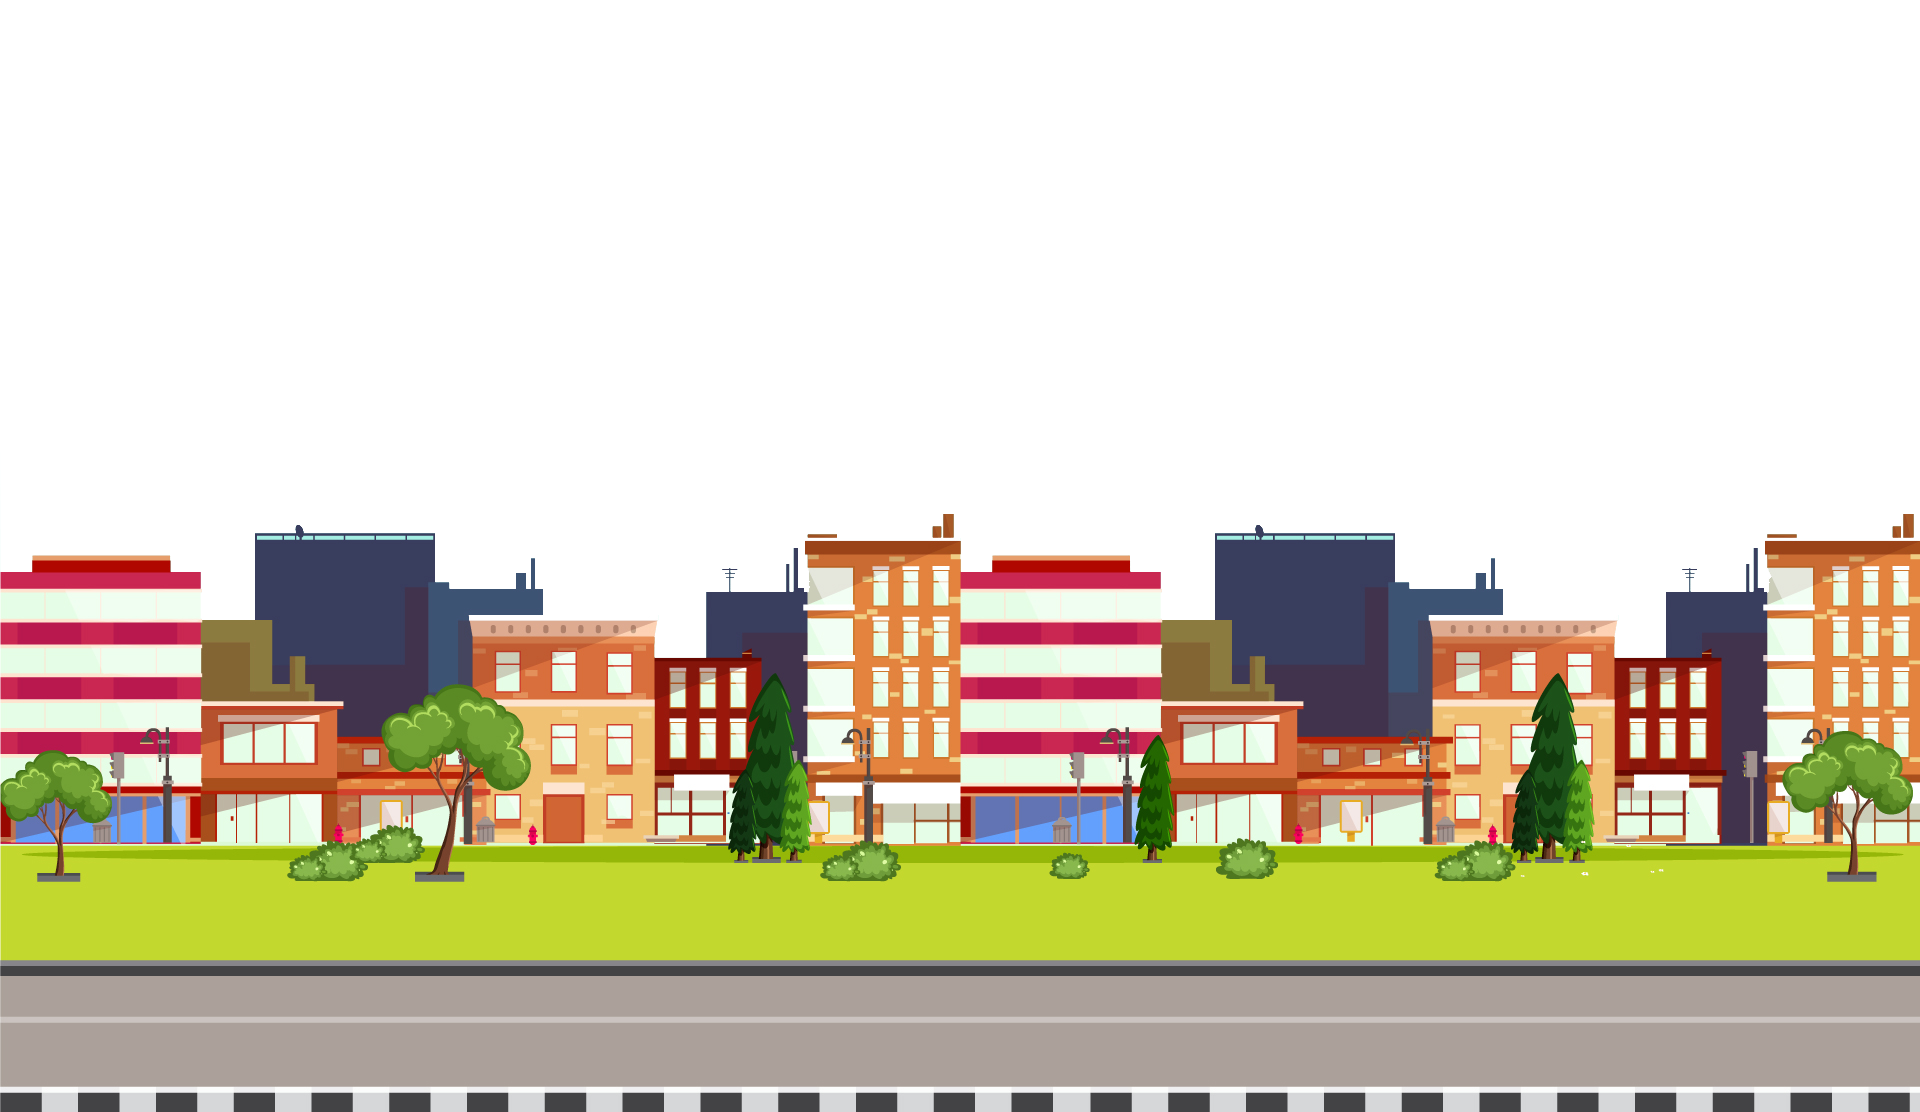
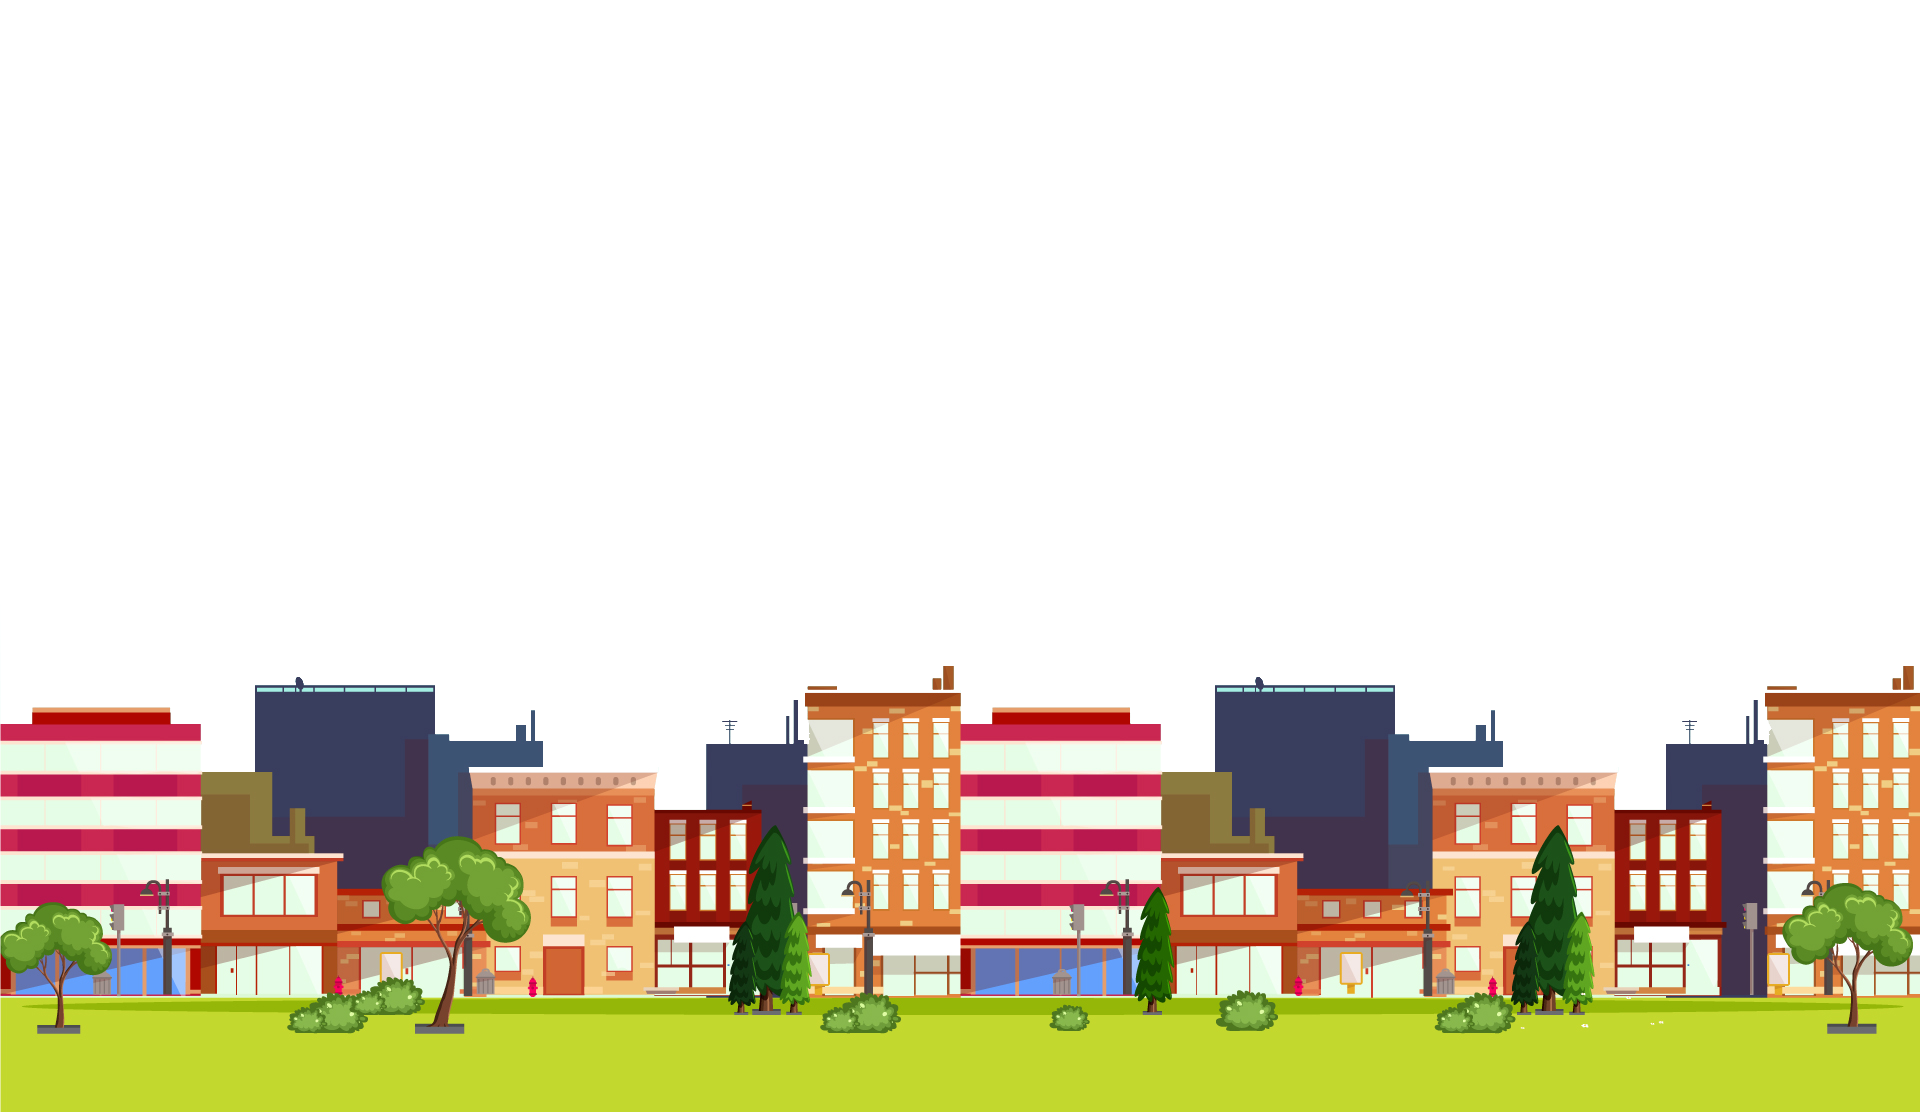
update green button

diff --git a/src/App.css b/src/App.css
@@ -67,29 +67,13 @@
 .floor-0-background {
   position: relative;
   width: 100%;
-  bottom: -161px;
-  background-size: auto 100%;
+  height: 100%;
+  background-size: cover;
   background-repeat: repeat-x;
-  background-position-x: bottom;
   background-position-y: bottom;
-  height: 160px;
-  background-image: url(./assets/img/city-front.png );
-  z-index: 10;
+  background-image: url(./assets/img/static/background-footer.png);
+  z-index: 0;
   overflow: hidden;
-}
-
-.bg-ground-my-bottom {
-  position: absolute;
-  width: 100%;
-  bottom: 0px;
-  left: 50%;
-  transform: translate(-50%);
-  background-size: auto 100%;
-  background-repeat: repeat-x;
-  background-position-x: bottom;
-  background-position-y: bottom;
-  height: 100px;
-  background-image: url(./assets/img/land.png );
 }
 
 .floor-kitchen {
@@ -103,7 +87,7 @@
 }
 
 body {
-  background: url(./assets/img/background.png) repeat-x;
+  background: url(./assets/img/static/background.png) repeat-x;
 }
 
 .section-bg {
@@ -113,13 +97,6 @@ body {
 .section-open {
   background-size: contain;
   background-position: bottom;
-}
-
-.section-open-logout {
-  background: url(./assets/img/background-logout.png) no-repeat;
-  width: 100%;
-  background-size: cover;
-  background-position: top;
 }
 
 #slider {
@@ -187,7 +164,7 @@ div.login-action {
 }
 
 .btn-green {
-  background: url(./assets/img/btn_green.png) no-repeat;
+  background: url(./assets/img/static/green-button.png) no-repeat;
   cursor: pointer;
   border: none;
   background-size: contain;
@@ -209,9 +186,17 @@ div.login-action {
 
 .get-money {
   position: relative;
+  width: 100%;
+  height: 152px;
+  background: url(./assets/img/static/road.png) no-repeat;
   justify-content: center;
   display: flex;
-  margin-top: 181px;
+}
+
+.footer-btn {
+  height: 50px;
+  font-weight: bold;
+  margin-top: 50px;
 }
 
 input.form-input {
@@ -856,7 +841,7 @@ button:hover,
   text-align: center;
   background-color: transparent;
   border: none;
-  background-image: url(./assets/img/btn_green.png);
+  background-image: url(./assets/img/static/green-button.png);
   background-size: contain;
   background-repeat: no-repeat;
   background-position: center;
@@ -1206,7 +1191,7 @@ div.barn-action {
   text-align: center;
   background-color: transparent;
   border: none;
-  background-image: url(./assets/img/btn_green.png);
+  background-image: url(./assets/img/static/green-button.png);
   background-size: contain;
   background-repeat: no-repeat;
   background-position: center;

diff --git a/src/components/footer.js b/src/components/footer.js
@@ -5,8 +5,8 @@ import DeliveryMan from "./animations/deliveryMan";
 
 const Footer = ({ isConnected, setShowGetMoney, loadWeb3Modal }) => {
     return (
-        <div className='footer'>
-            <div className="floor-0-background" style={{ overflow: "hidden" }} >
+        <>
+            <div className="footer floor-0-background">
                 <div className="floor-0-parking-pos">
                     <ParkingManager />
                     <div className="floor-0-brick-wall"></div>
@@ -14,21 +14,19 @@ const Footer = ({ isConnected, setShowGetMoney, loadWeb3Modal }) => {
                     <DeliveryMan nSpeed={5} />
                 </div>
             </div>
-            <div className="bg-ground-my-bottom"></div>
             <div className="get-money">
                 {isConnected ?
-                    <button type="button" className="btn-green"
-                        style={{ fontWeight: "bold" }}
+                    <button type="button" className="footer-btn btn-green"
                         onClick={() => setShowGetMoney(true)}>
                         Get Money
                     </button> :
-                    <button type="button" className="btn-green btn-login" style={{ fontWeight: "bold" }}
+                    <button type="button" className="footer-btn btn-green"
                         onClick={loadWeb3Modal}>
-                        Connect
+                        CONNECT
                     </button>
                 }
             </div>
-        </div>
+        </>
     )
 }
 export default Footer;

diff --git a/src/components/house.js b/src/components/house.js
@@ -38,10 +38,10 @@ const House = ({ id, houseInfo, isConnected, price, setUpgradeLevel, enableValue
                         {(id > 2) && <div className='table table3'></div>}
                         <div className='table table4'></div>
                     </div>
-                    {visible1 && (id > 6) && <Chef className="chef-1" chefId={1} cookingTime={1000} workTime={3000} backTime={3000} />}
+                    {/* {visible1 && (id > 6) && <Chef className="chef-1" chefId={1} cookingTime={1000} workTime={3000} backTime={3000} />}
                     {visible1 && (id > 4) && <Chef className="chef-2" chefId={2} cookingTime={1000} workTime={5000} backTime={6000} />}
                     {visible2 && (id > 2) && <Chef className="chef-3" chefId={3} cookingTime={1000} workTime={7000} backTime={8000} />}
-                    {visible3 && <Chef className="chef-4" chefId={4} cookingTime={2000} workTime={9000} backTime={10000} />}
+                    {visible3 && <Chef className="chef-4" chefId={4} cookingTime={2000} workTime={9000} backTime={10000} />} */}
                 </div>
             </div>
 

diff --git a/src/pages/index.js b/src/pages/index.js
@@ -518,7 +518,7 @@ const Home = () => {
           setShowBuyCoins={setShowBuyCoins}
           setShowGetBNB={setShowGetBNB}
           setShowReferral={setShowReferral}
-          // logoutOfWeb3Modal={logoutOfWeb3Modal}
+        // logoutOfWeb3Modal={logoutOfWeb3Modal}
         />
         <RightPanel
           allHousesLength={allHousesLength}
@@ -534,14 +534,13 @@ const Home = () => {
                 <House key={value} id={value} houseInfo={houseInfo} isConnected={isConnected} price={price} setUpgradeLevel={setUpgradeLevel} enableValue={enableValue} />
               ))}
             </div >
-            <Footer
-              isConnected={isConnected}
-              setShowGetMoney={setShowGetMoney}
-              loadWeb3Modal={loadWeb3Modal}
-            />
           </div>
+          <Footer
+            isConnected={isConnected}
+            setShowGetMoney={setShowGetMoney}
+            loadWeb3Modal={loadWeb3Modal}
+          />
         </div >
-
       </div >
 
       <BuyCoins
